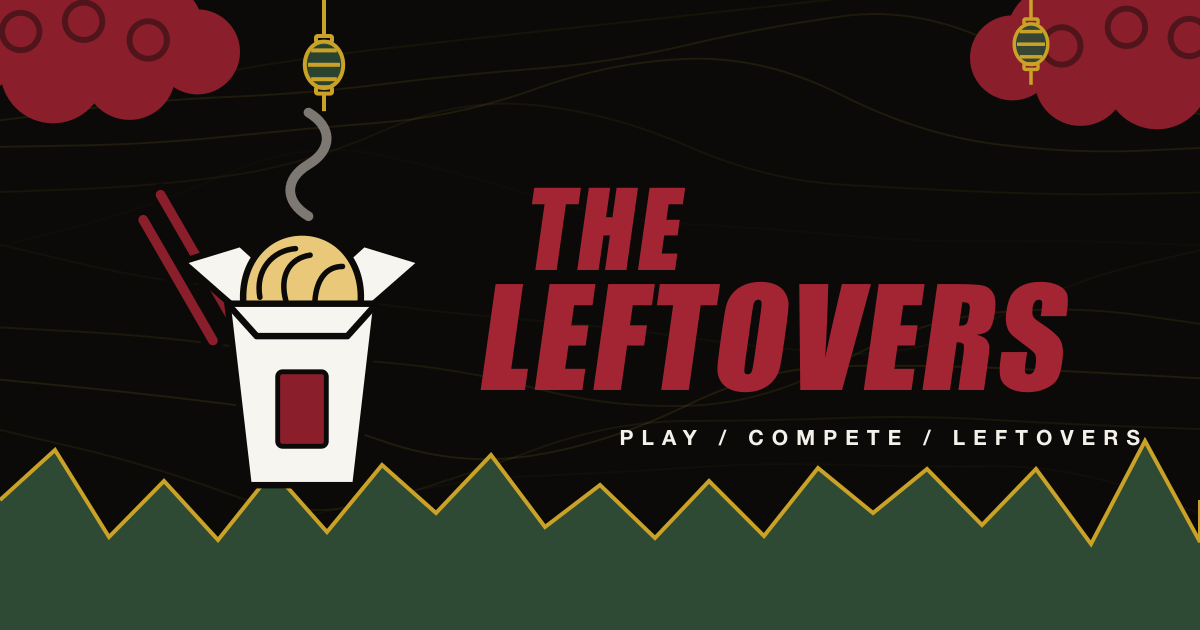
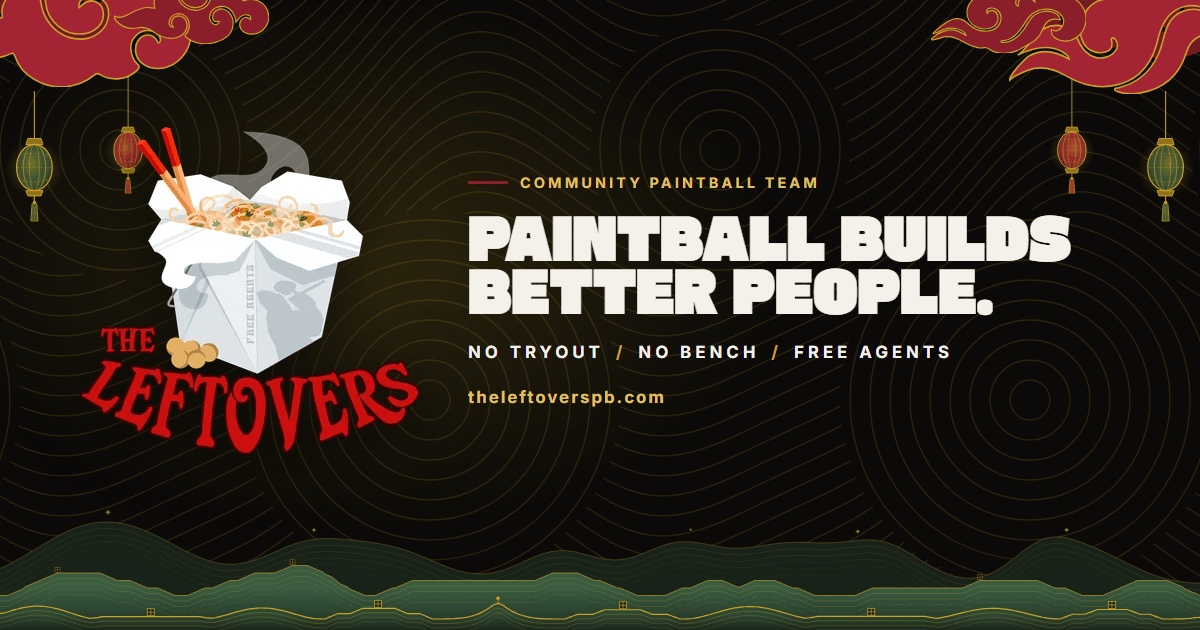
Refresh SEO metadata and OG card; single terrace band on a sand footer
SEO
- New default share card (public/og-default.png, 1200x630) rendered
  from the real components on /design/og-card (logo lockup,
  CloudCorner, RiceTerraces, sand, Gasoek); `npm run og` now serves the
  built dist and screenshots it with Playwright, so the card can't drift
  from the site again. /design/* is noindex and out of the sitemap.
- og:image:width/height/type/secure_url and a descriptive alt; sizes
  are only emitted when known.
- homeTitle setting ("The Leftovers — Community Paintball Team for Free
  Agents") and a 147-character default description, both CMS-editable.
- SportsTeam logo is the square logo (card moves to `image`); new
  WebSite entity on the homepage; PNG favicon + the real 180px
  apple-touch-icon instead of the SVG.

Footer
- bg-sand texture and one RiceTerraces band closing the page, replacing
  the old TerracedDivider. Pages' last Sections no longer take `divider`,
  which stacked two identical bands a screen apart.
- RiceTerraces no longer forces `relative` on its root, so a caller's
  `absolute` works (it only worked in the hero by accident).

Docs: EDITING (search title/description), HANDOFF/README (`npm run og`),
Section `divider` note, Footer doc comment.

diff --git a/src/lib/settings.ts b/src/lib/settings.ts
@@ -17,6 +17,8 @@ const linkSchema = z.object({ label: z.string(), href: z.string() });
 const settingsSchema = z.object({
   title: z.string(),
   tagline: z.string(),
+  /** Homepage search-result title; falls back to "Title — Tagline". */
+  homeTitle: z.string().optional(),
   description: z.string(),
   established: z.number(),
   homeBase: z.string().default(''),

diff --git a/docs/EDITING.md b/docs/EDITING.md
@@ -118,6 +118,18 @@ links, the contact email, the Discord invite, the mailing-list endpoint and the
 Bonfire store URL. Changing a social URL here changes it in the footer, the
 community page and the contact page at once.
 
+Two fields control how the site shows up in Google:
+
+- **Homepage search title** is the blue headline Google shows for the
+  homepage. Keep it under about 60 characters, brand first.
+- **Default meta description** is the grey text under it, used by any page
+  that doesn't have its own. Keep it under about 155 characters, or Google
+  cuts it off with "…".
+
+The image shown when someone shares a link (on Facebook, iMessage, Discord)
+is a designed card, not a setting. If it needs changing, ask whoever
+maintains the code.
+
 Two fields unlock features that are currently showing link-out cards instead:
 
 - **Discord server ID** — *the team doesn't run a Discord right now, so leave

diff --git a/README.md b/README.md
@@ -170,7 +170,7 @@ npm install
 npm run dev        # http://localhost:4321
 npm run build      # astro check && astro build -> dist/
 npm run preview    # serve dist/ locally
-npm run og         # regenerate public/og-default.png after brand changes
+npm run og         # after npm run build: re-shoot public/og-default.png from /design/og-card
 npm run storybook  # http://localhost:6006 — foundations + React islands
 npx vitest run     # run every Storybook play test headlessly
 node scripts/make-pattern-tiles.mjs   # regenerate the sand/seigaiha tiles

diff --git a/docs/HANDOFF.md b/docs/HANDOFF.md
@@ -227,7 +227,7 @@ npm run build            # astro check + astro build: must be 0 errors
 npx vitest run           # every Storybook play test, headless Chromium
 npm run storybook        # http://localhost:6006
 node scripts/make-pattern-tiles.mjs   # regenerate the sand/seigaiha tiles
-npm run og               # regenerate public/og-default.png
+npm run og               # after npm run build: screenshot /design/og-card into public/og-default.png
 ```
 
 - **Deploy = push to `main`.** GitHub Actions builds and publishes in about two
